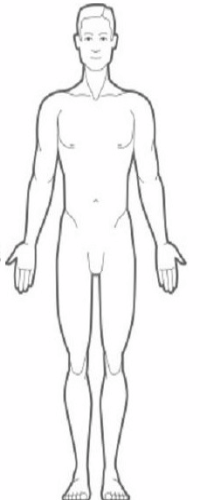
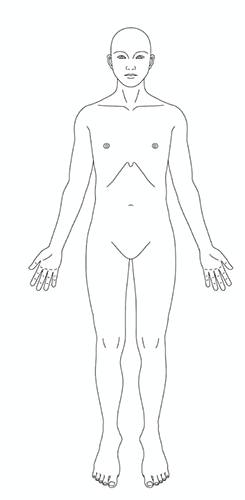
update patient history body diagrams

diff --git a/resources/views/pages/account/patient-history/patient/edit/partial/page4.blade.php b/resources/views/pages/account/patient-history/patient/edit/partial/page4.blade.php
@@ -195,13 +195,13 @@
                                         <div class="col-md-3 col-sm-3"></div>
                                         <div class="col-md-3 col-sm-3">
                                             <label style="text-align:center">
-                                                BACK
+                                            FRONT
                                             </label>
                                         </div>
                                         <div class="col-md-3 col-sm-3"></div>
                                         <div class="col-md-3 col-sm-3">
                                             <label style="text-align:center">
-                                                FRONT
+                                            BACK
                                             </label>
                                         </div>
                                     </div>
@@ -237,7 +237,7 @@
                                             </div>
                                             <div class="col-md-3">
                                                 <input type="hidden" id="area_diagram_front" name="area_diagram_front" value="" />
-                                                <div id="canvas_diagram_front" class="canvas_diagram" style="width:200px;height:500px;" rel="/img/account/patient-history/body-front.png"></div>
+                                                <div id="canvas_diagram_front" class="canvas_diagram" style="width:245px;height:500px;" rel="/img/account/patient-history/body-front.png"></div>
                                             </div>
                                             @else
                                             <div class="col-md-6 text-center">
@@ -254,7 +254,7 @@
                                             </div>
                                             <div class="col-md-3">
                                                 <input type="hidden" id="area_diagram_back" name="area_diagram_back" value="" />
-                                                <div id="canvas_diagram_back" class="canvas_diagram" style="width:200px;height:500px;" rel="/img/account/patient-history/body-back.png"></div>
+                                                <div id="canvas_diagram_back" class="canvas_diagram" style="width:245px;height:500px;" rel="/img/account/patient-history/body-back.png"></div>
                                             </div>
                                             @else
                                             <div class="col-md-6 text-center">
